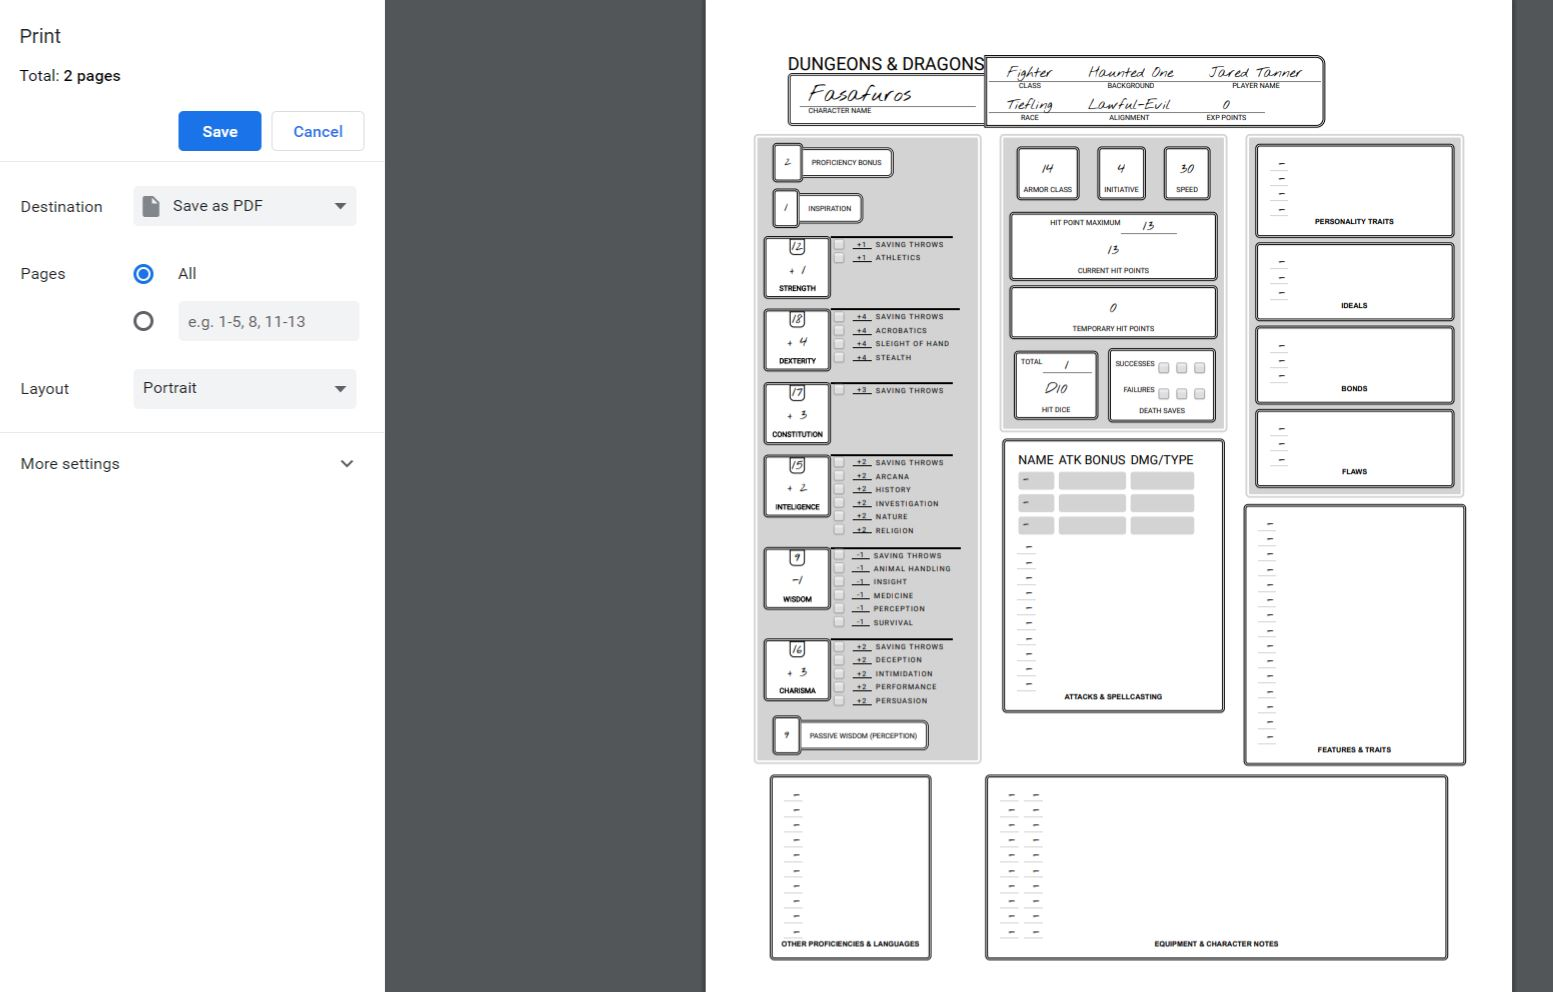
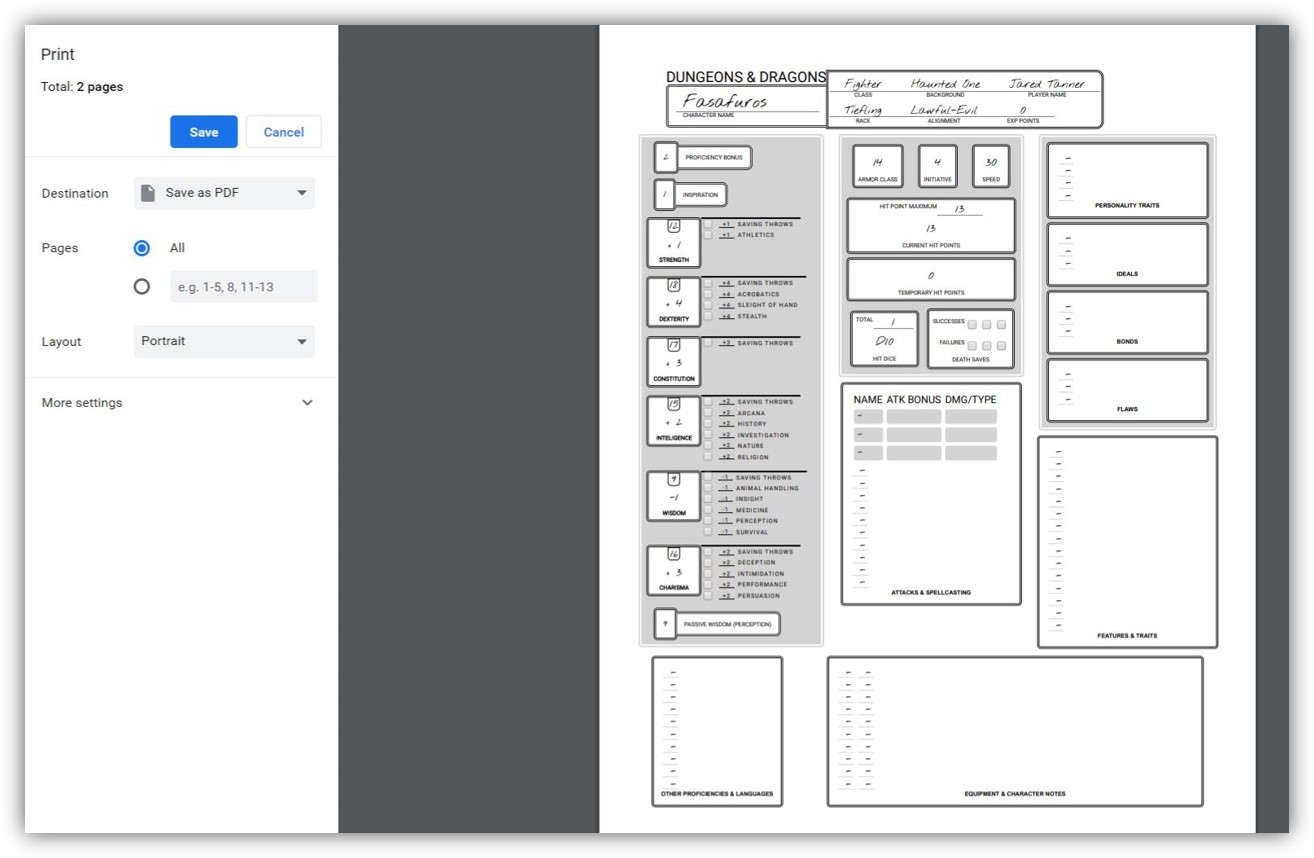
update screenshots and README...again

Changed region(s): [[0.0, 0.0, 1.0, 1.0], [0.0936, 0.3636, 0.156, 0.4242]]

diff --git a/README.md b/README.md
@@ -6,9 +6,9 @@ It has a bare-bones single-page design. I mimicked the look of a Dungeon and Dra
 
 This site is hosted [here](https://deraj21.github.io/dnd-character-creator) via github-pages.
 
-<img src="https://raw.githubusercontent.com/Deraj21/dnd-character-creator/master/dnd-screenshot.JPG" style="border-radius: 5px; box-shadow: 0px 5px 50px -3px black"/>
+<img src="https://raw.githubusercontent.com/Deraj21/dnd-character-creator/master/dnd-screenshot.JPG" />
 
-<img src="https://raw.githubusercontent.com/Deraj21/dnd-character-creator/master/dnd-print-screenshot.JPG" style="border-radius: 5px; box-shadow: 0px 0px 15px -5px black" />
+<img src="https://raw.githubusercontent.com/Deraj21/dnd-character-creator/master/dnd-print-screenshot.JPG" />
 
 
 
